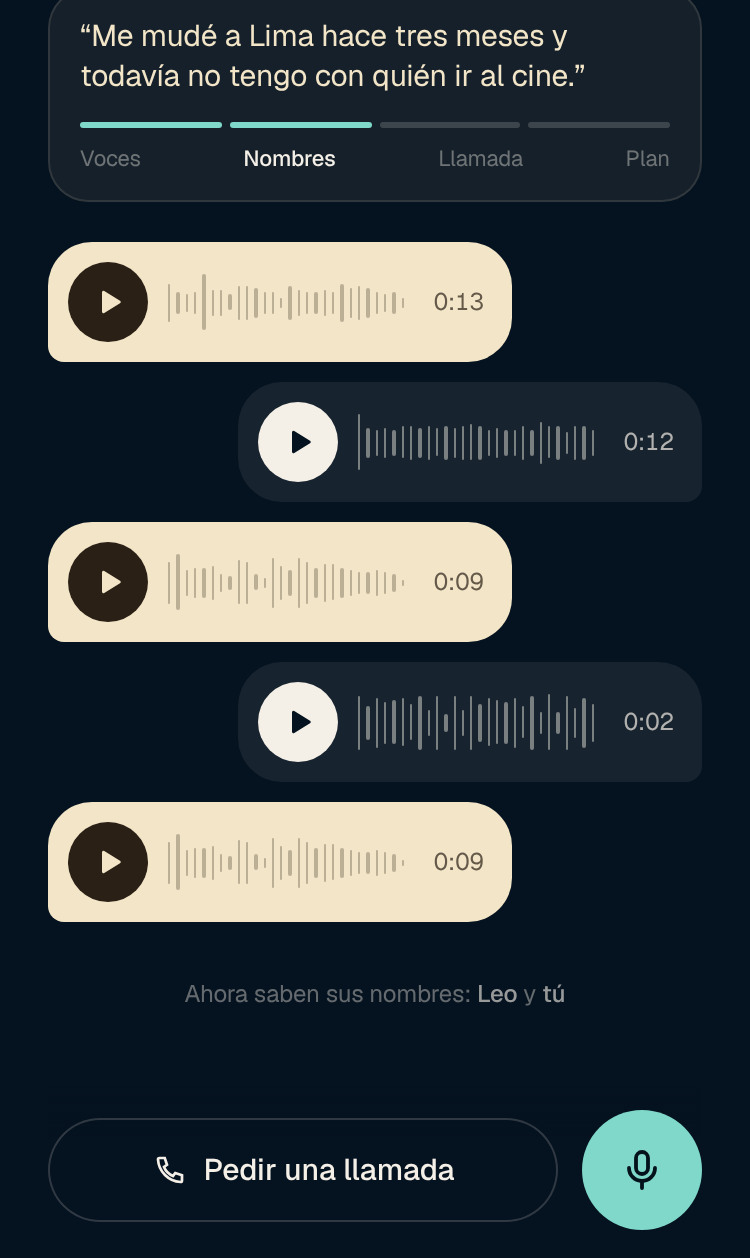
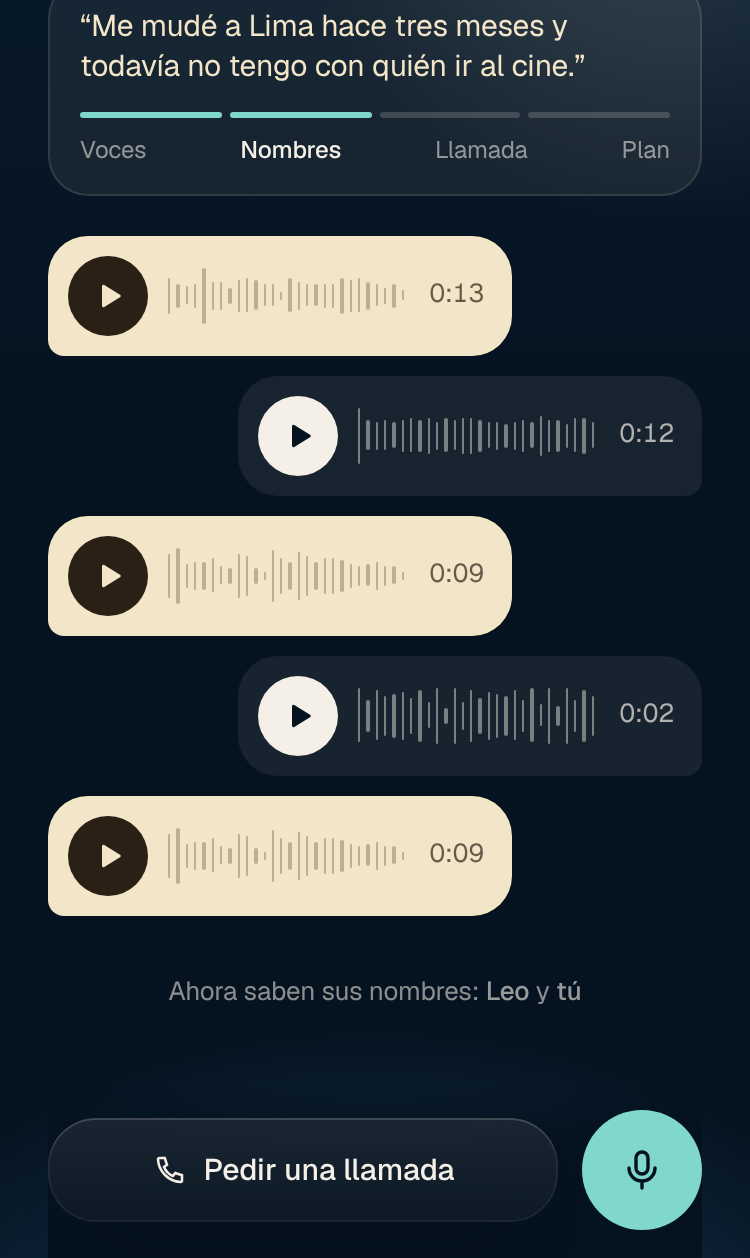
Botella web nueva: estilo Vidrio nocturno
Botones, pestañas, formulario y marcos de vidrio como la botella 3D.
Capturas de la app con el nuevo estilo, texto gris más legible
(contraste 4.6:1), texto de portada legible sobre el 3D y faro
fuera del título en celular.

Claude-Session: https://claude.ai/code/session_01LwmaLp1mzVTQa2ML9Cacdp

diff --git a/nueva/site.css b/nueva/site.css
@@ -129,3 +129,20 @@ button,input{font:inherit;color:inherit}
 [data-in].wait>*{opacity:0;transform:translateY(24px)}
 [data-in]>*:nth-child(2){transition-delay:.06s}[data-in]>*:nth-child(3){transition-delay:.12s}
 @media (prefers-reduced-motion:reduce){*,*::before,*::after{animation:none!important;transition:none!important}html{scroll-behavior:auto}}
+
+/* ---------- Vidrio nocturno (dirección elegida, 26/11): el vidrio de la botella 3D en toda la interfaz ---------- */
+:root{--fg3:rgba(244,239,231,.58);--glass:linear-gradient(180deg,rgba(244,239,231,.085),rgba(244,239,231,.03));--glass-edge:inset 0 1px 0 rgba(255,255,255,.12),inset 0 0 0 1px rgba(244,239,231,.07)}
+.btn-a{background:linear-gradient(180deg,#A3EADF,#6FCDBD);box-shadow:inset 0 1px 0 rgba(255,255,255,.55),inset 0 -1px 0 rgba(4,18,28,.15),0 14px 34px -14px rgba(127,216,201,.6)}
+.btn-2,.pill{background:var(--glass);box-shadow:var(--glass-edge);backdrop-filter:blur(14px);-webkit-backdrop-filter:blur(14px)}
+.btn-2:hover{background:linear-gradient(180deg,rgba(244,239,231,.13),rgba(244,239,231,.05))}
+.topics button{background:var(--glass);box-shadow:var(--glass-edge)}
+.three figure{box-shadow:inset 0 1px 0 rgba(255,255,255,.14),0 0 0 1px rgba(244,239,231,.08),0 40px 80px -40px rgba(2,10,20,.9);background:var(--bg2)}
+.listen{background:radial-gradient(90% 60% at 80% 40%,rgba(40,98,140,.35),transparent 65%),linear-gradient(var(--bg),var(--bg2))}
+.why{background:radial-gradient(100% 70% at 50% 120%,rgba(40,98,140,.45),transparent 62%),var(--bg2)}
+.join{background:radial-gradient(80% 60% at 50% 0%,rgba(127,216,201,.1),transparent 70%),radial-gradient(120% 60% at 50% 120%,rgba(40,98,140,.4),transparent 62%),var(--bg)}
+.form input:not([type=checkbox]){background:var(--glass);box-shadow:var(--glass-edge);border-radius:20px}
+.form input:focus{box-shadow:inset 0 1px 0 rgba(255,255,255,.12),inset 0 0 0 1.5px var(--a)}
+.done{background:var(--glass);box-shadow:var(--glass-edge),0 30px 60px -30px rgba(2,10,20,.9);border-radius:24px}
+.paper{box-shadow:0 0 0 1px rgba(255,255,255,.5) inset,0 40px 80px -36px rgba(2,10,20,.9)}
+.ch .lead{color:rgba(244,239,231,.84);text-shadow:0 2px 22px rgba(5,18,31,.95),0 0 3px rgba(5,18,31,.85)}
+.ch .d1,.ch .d2{text-shadow:0 4px 40px rgba(5,18,31,.6)}

diff --git a/nueva/3d/hero.js b/nueva/3d/hero.js
@@ -16,7 +16,7 @@ else {
   const oc = ocean({ moonDir: [mpos.x, mpos.y, mpos.z], fog: '#0B2436', skyc: '#123552', fogNear: 40, fogFar: 300, amp: .8 }); oc.mesh.position.y = SEA; scene.add(oc.mesh);
   scene.add(new THREE.HemisphereLight('#9FD8E8', '#05121F', .45)); const key = new THREE.DirectionalLight('#EAF6F2', 1.4); key.position.copy(mpos); scene.add(key);
   // faro
-  const LX = MOB ? 16 : 40, LZ = -70;
+  const LX = MOB ? 22 : 40, LZ = -70;
   const rock = new THREE.Mesh(new THREE.IcosahedronGeometry(1, 5), new THREE.MeshStandardMaterial({ color: '#14324A', roughness: .9 })); rock.scale.set(9, 3, 7); rock.position.set(LX, SEA - 1, LZ); scene.add(rock);
   const lh = new THREE.Group(); lh.position.set(LX, SEA + 1.4, LZ); scene.add(lh);
   const wht = new THREE.MeshStandardMaterial({ color: '#EFE9E1', roughness: .55 }), red = new THREE.MeshStandardMaterial({ color: '#E8585E', roughness: .55 });
